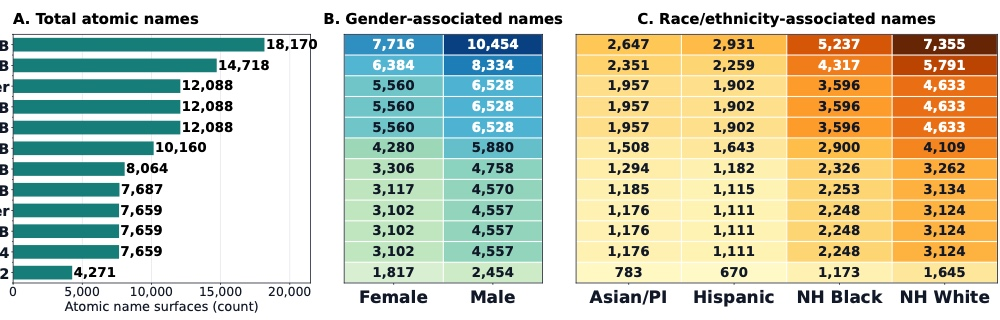
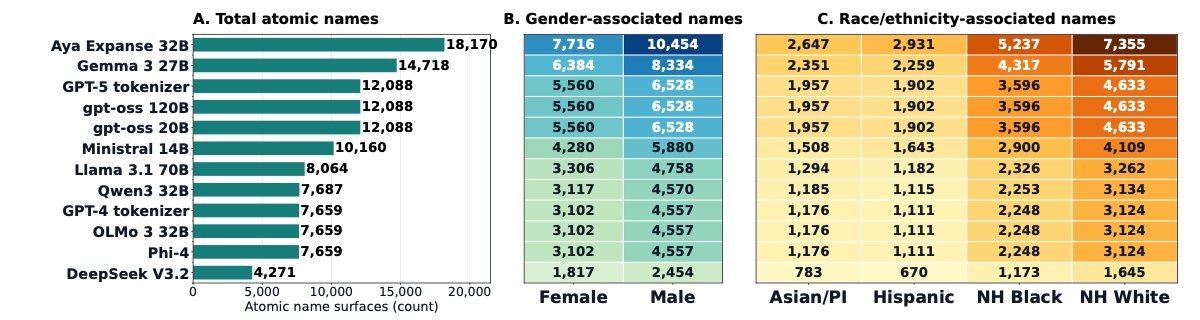
Updated!

diff --git a/NameTrace/index.html b/NameTrace/index.html
@@ -55,7 +55,7 @@
       <li><strong>200</strong><span>matched name pairs for internal analysis (400 Names)</span></li>
     </ul>
     <figure class="figure figure-overview">
-      <img src="static/figures/overview.jpg" alt="NameTrace overview: names enter language models with unequal lexical access; the framework measures task-axis concept accessibility, within-stratum persistence, transfer to unseen names, and downstream leverage." width="1210" height="590" fetchpriority="high">
+      <img src="static/figures/overview.jpg" alt="NameTrace overview: names enter language models with unequal lexical access; the framework measures task-axis concept accessibility, within-stratum persistence, transfer to unseen names, and downstream leverage." width="2017" height="984" fetchpriority="high">
       <figcaption><span>Study overview</span> NameTrace follows name-surface support from tokenizer access to internal task concepts, transfer across names, and later constrained choices.</figcaption>
     </figure>
   </header>
@@ -88,7 +88,17 @@
       <div class="section-label">Findings</div>
       <div class="section-body">
         <h2>Lexical support predicts task-relevant accessibility</h2>
-        <p>Direct access is selective and model dependent: 23,095 names are atomic in at least one tokenizer, while only 4,052 are atomic in all 12. NameTrace then finds positive pooled atomic-minus-fragmented accessibility gaps on all four task axes for unseen names.</p>
+        <h3 class="finding-subhead">RQ1: Who gets direct lexical access?</h3>
+        <p>Direct access is selective and model dependent: 23,095 names are atomic in at least one tokenizer, while only 4,052 are atomic in all 12. The paper's tokenizer comparison shows how sharply access counts vary by model, alongside aggregate gender- and race/ethnicity-associated counts.</p>
+        <figure class="figure figure-tokenizers">
+          <div class="figure-scroll" tabindex="0" aria-label="Tokenizer access figure; scroll horizontally on narrow screens">
+            <img src="static/figures/tokenizer-access.jpg" alt="Three-panel tokenizer comparison. Among the metadata-annotated names shown, atomic counts range from 4,271 for DeepSeek V3.2 to 18,170 for Aya Expanse 32B. The other panels break counts down by gender- and race/ethnicity-associated name metadata." width="1200" height="320" loading="lazy">
+          </div>
+          <figcaption><span>RQ1 - Tokenizer access</span> Atomic first-name counts differ by tokenizer; the companion panels show the aggregate metadata composition of those vocabularies.</figcaption>
+        </figure>
+        <p>In a higher-frequency, high-confidence subset of 7,469 names, atomic access was 49.8% for male-associated versus 25.7% for female-associated names. Across race/ethnicity-associated metadata, access ranged from 17.6% for NH Black-associated names to 47.2% for NH White-associated names (46.4% for Asian/PI-associated names).</p>
+        <h3 class="finding-subhead">RQ2: Does support appear in internal task concepts?</h3>
+        <p>On held-out names, NameTrace finds positive pooled atomic-minus-fragmented accessibility gaps on all four task axes:</p>
         <div class="table-wrap">
           <table>
             <caption>Held-out atomic-minus-short-fragmented concept accessibility gaps</caption>
@@ -106,6 +116,8 @@
           <img src="static/figures/accessibility-results.jpg" alt="Results chart: pooled weighted gaps are positive for fellowship, hiring, clinical concern, and lending; the heatmap shows positive gaps across all eight name-metadata strata." width="625" height="820" loading="lazy">
           <figcaption><span>Across tasks and strata</span> The support-linked gap is positive across the four pooled task axes and all eight name-metadata strata.</figcaption>
         </figure>
+        <h3 class="finding-subhead">RQ3: Does support transfer and influence later choices?</h3>
+        <p>Yes: patterns learned from development names predict gaps for unseen names, and interventions along measured task directions shift later constrained choices.</p>
         <div class="finding-grid">
           <article><h3>Transfers to unseen names</h3><p>Development-name support priors account for 72.9% to 96.6% of the pooled held-out gap, depending on task.</p></article>
           <article><h3>Has downstream leverage</h3><p>Interventions along measured task directions shift later constrained choices in all three primary model families.</p></article>

diff --git a/NameTrace/static/css/index.css b/NameTrace/static/css/index.css
@@ -47,7 +47,7 @@ h1, h2, h3, p, figure { margin-top: 0; }
 .stat-strip span { color: var(--muted); font-size: 0.8rem; line-height: 1.4; }
 .figure { margin: 0; }
 .figure img { display: block; width: 100%; height: auto; }
-.figure-overview { padding: clamp(0.45rem, 1.4vw, 0.85rem); border: 1px solid var(--rule); border-radius: 6px; background: var(--surface); box-shadow: 0 8px 22px rgba(32, 45, 62, 0.055); }
+.figure-overview { max-width: 900px; margin: 0 auto; padding: clamp(0.45rem, 1.4vw, 0.85rem); border: 1px solid var(--rule); border-radius: 6px; background: var(--surface); box-shadow: 0 8px 22px rgba(32, 45, 62, 0.055); }
 figcaption { display: flex; gap: 0.55rem; margin-top: 0.7rem; color: var(--muted); font-size: 0.78rem; line-height: 1.5; text-align: left; }
 figcaption span { flex: 0 0 auto; color: var(--ink); font-weight: 700; }
 main { padding-top: 1rem; }
@@ -71,6 +71,10 @@ main { padding-top: 1rem; }
 .table-wrap thead th { border-top: 0; background: #f0f4f6; color: #374655; font-size: 0.75rem; font-weight: 750; }
 .table-wrap tbody th[scope="row"] { color: #334656; font-weight: 700; }
 .table-note { margin: 0.6rem 0 1.25rem !important; color: var(--muted) !important; font-size: 0.79rem; }
+.finding-subhead { margin: 1.35rem 0 0.5rem; color: var(--blue-dark); font-size: 1.15rem; line-height: 1.35; }
+.figure-tokenizers { margin: 1rem 0 1.2rem; }
+.figure-scroll { overflow-x: auto; border: 1px solid var(--rule); border-radius: 5px; background: #fff; overscroll-behavior-inline: contain; }
+.figure-scroll img { display: block; width: 100%; min-width: 760px; height: auto; }
 .figure-results { max-width: 520px; margin: 1.25rem auto 1.5rem; }
 .figure-results img { border: 1px solid var(--rule); border-radius: 5px; background: #fff; }
 .figure-transfer { margin-top: 1.5rem; padding: 0.6rem; border: 1px solid var(--rule); border-radius: 5px; background: #fff; }
